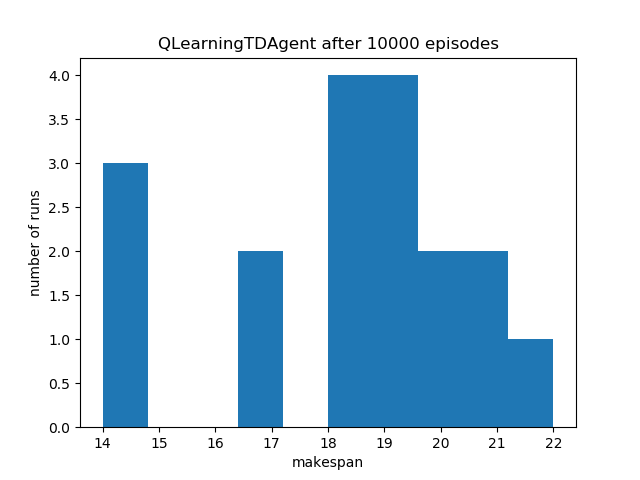
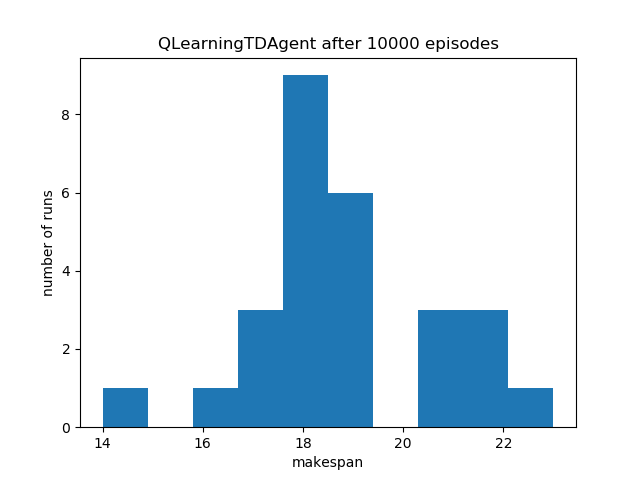
reward for progress

diff --git a/day4/rl/gym-jobshop/gym_jobshop/envs/jobshop_env.py b/day4/rl/gym-jobshop/gym_jobshop/envs/jobshop_env.py
@@ -308,8 +308,9 @@ class JobshopEnv(gym.Env):
           print('DEBUG (Env): Out-of-sequence tasks')
 
     # If we made it this far, none of the constraints have been violated
+    # reward for more tasks scheduled without errors
     if reward >= 0:
-      reward += 5
+      reward += 50 * sum(self.tasks.get_tasks_is_scheduled())
 
     return reward, error_info
 
